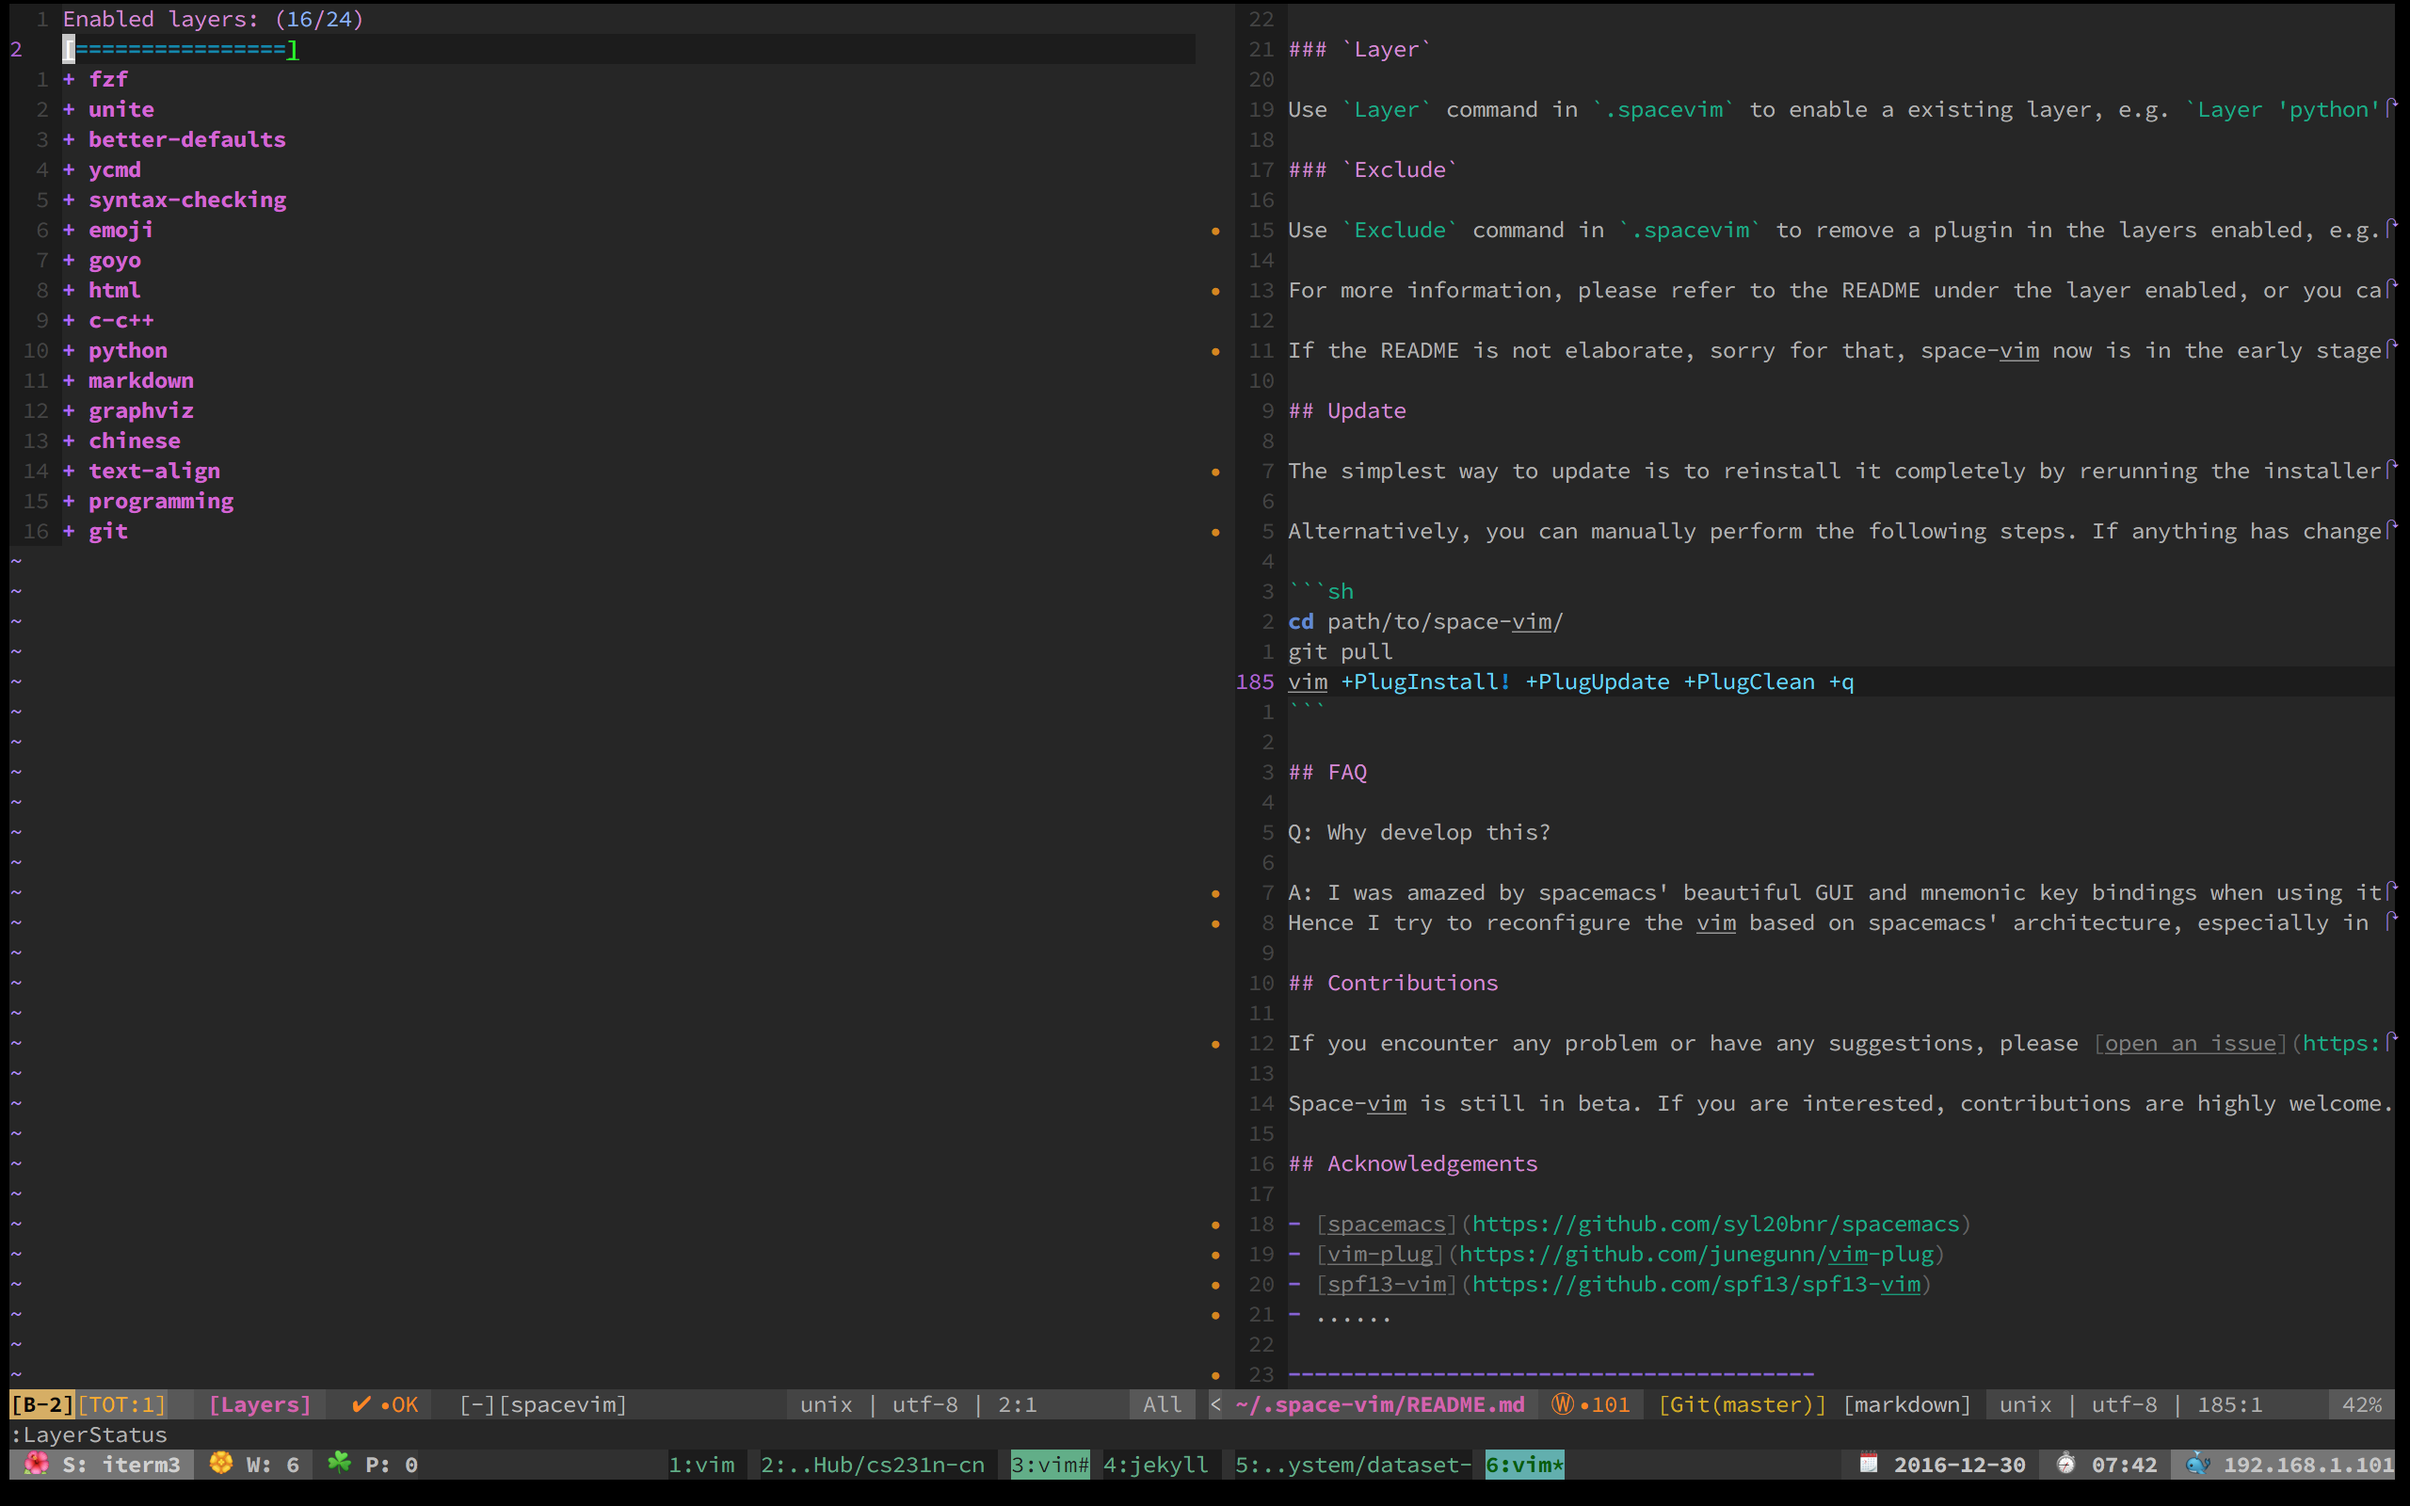
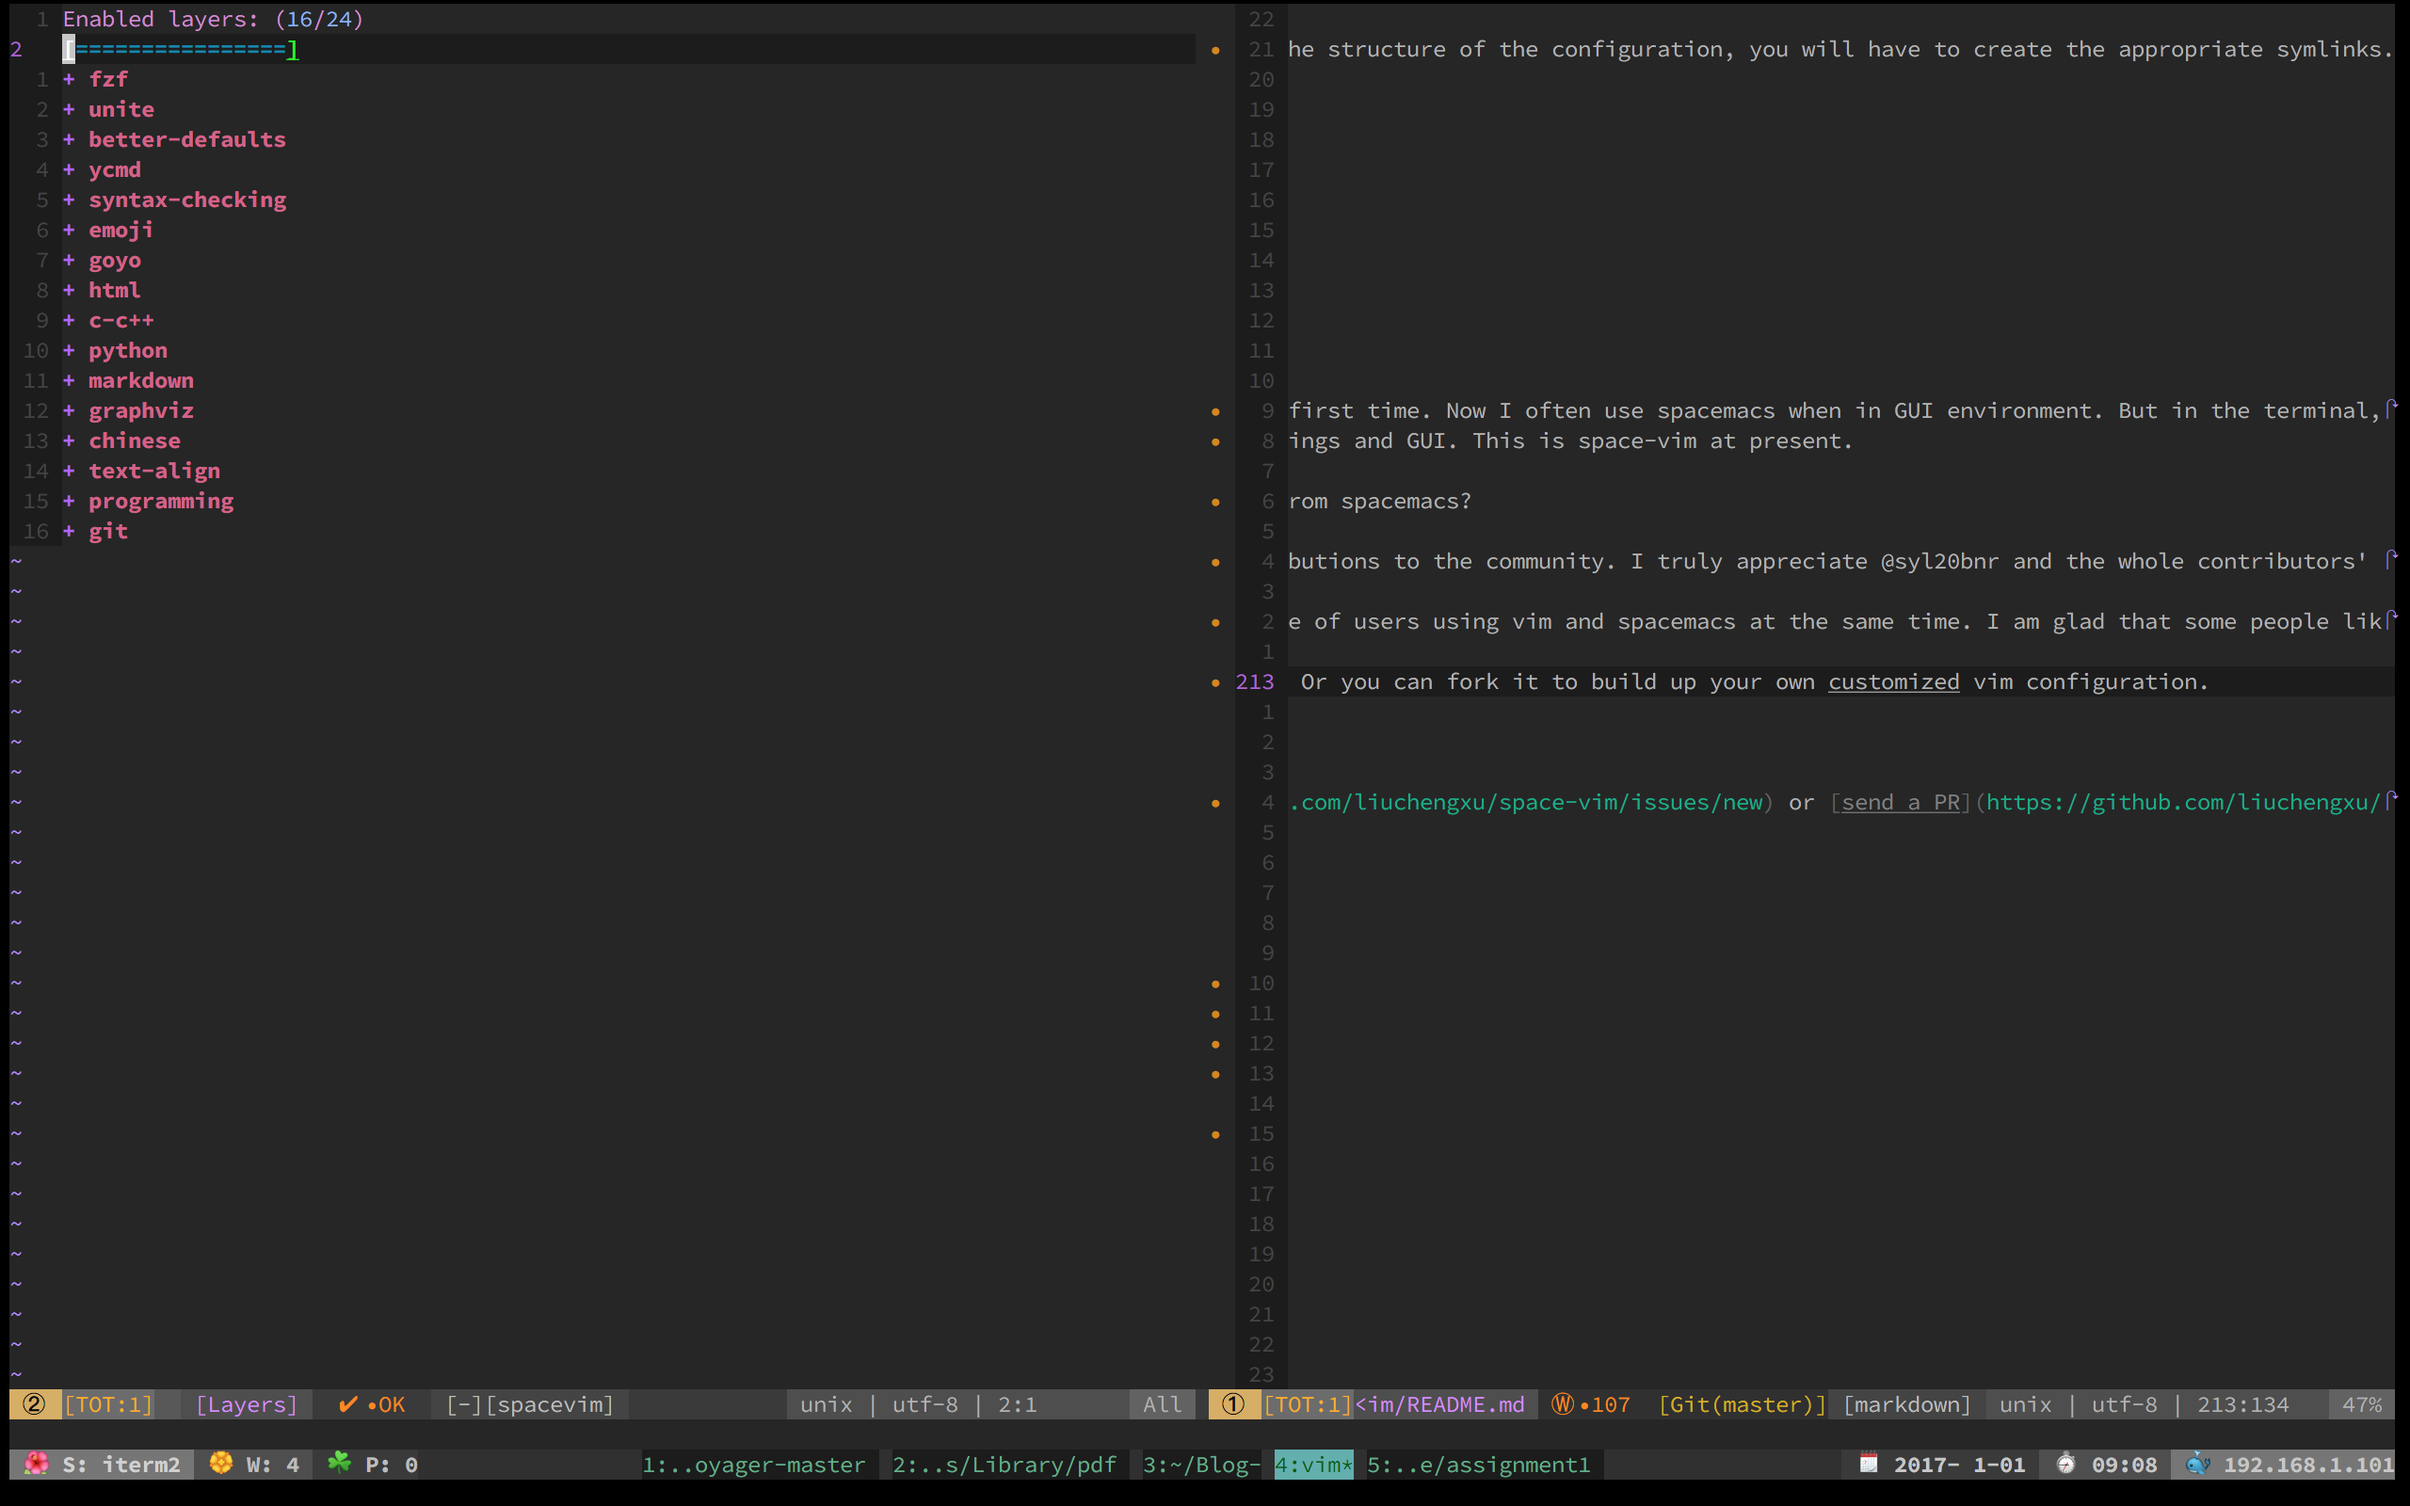
:lipstick: :memo: Change statusline truncate position, update README.md

diff --git a/README.md b/README.md
@@ -163,11 +163,23 @@ If have a heavy customized configuration, you can organize them in private direc
 
 ### `Layer`
 
-Use `Layer` command in `.spacevim` to enable a existing layer, e.g. `Layer 'python'`.
+Use `Layer` command in `.spacevim` to enable an existing layer, e.g. `Layer 'python'`.
+
+```vim
+function! UserInit()
+    Layer 'python'
+endfunction
+```
 
 ### `Exclude`
 
 Use `Exclude` command in `.spacevim` to remove a plugin in the layers enabled, e.g. `Exclude 'Shougo/denite.nvim'`. If use `Exclude` command, you need to run `:PlugClean` to guarantee the relevant configurations not to be loaded.
+
+```vim
+function! UserInit()
+    Exclude 'Shougo/denite.nvim'
+endfunction
+```
 
 For more information, please refer to the README under the layer enabled, or you can see config.vim and packages.vim directly.
 
@@ -189,8 +201,16 @@ vim +PlugInstall! +PlugUpdate +PlugClean +q
 
 Q: Why develop this?
 
-A: I was amazed by spacemacs' beautiful GUI and mnemonic key bindings when using it at the first time. Now I often use spacemacs when in GUI environment. But in terminal, vim is definitely my first choice. Then I hope to maintain consistency in operation as much as possible in either scenario.
+A: I was amazed by spacemacs' beautiful GUI and mnemonic key bindings when using it at the first time. Now I often use spacemacs when in GUI environment. But in the terminal, vim is definitely my first choice. Then I hope to maintain consistency in operation as much as possible in either scenario.
 Hence I try to reconfigure the vim based on spacemacs' architecture, especially in key bindings and GUI. This is space-vim at present.
+
+Q: How do you think of space-vim, and some other vim configurations/distributions derived from spacemacs?
+
+A: Spacemacs' popularity indeed benefits a great number of people, making remarkable contributions to the community. I truly appreciate @syl20bnr and the whole contributors' outstanding works and have learnt many lessons from spacemacs. 
+
+But for space-vim, it was merely a personal vim configuration for the purpose of convenience of users using vim and spacemacs at the same time. I am glad that some people like it and give many suggestions to improve it.
+
+If you like space-vim and are willing to polish it, feel free to give any pieces of advice. However, don't mean that I am positive on spending extra time joining some community focusing on make a spacemacs-like vim distribution. You can also fork it to build up your own customized vim configuration. It's an open source project, you can turn it into any shape you like.
 
 ## Contributions
 
